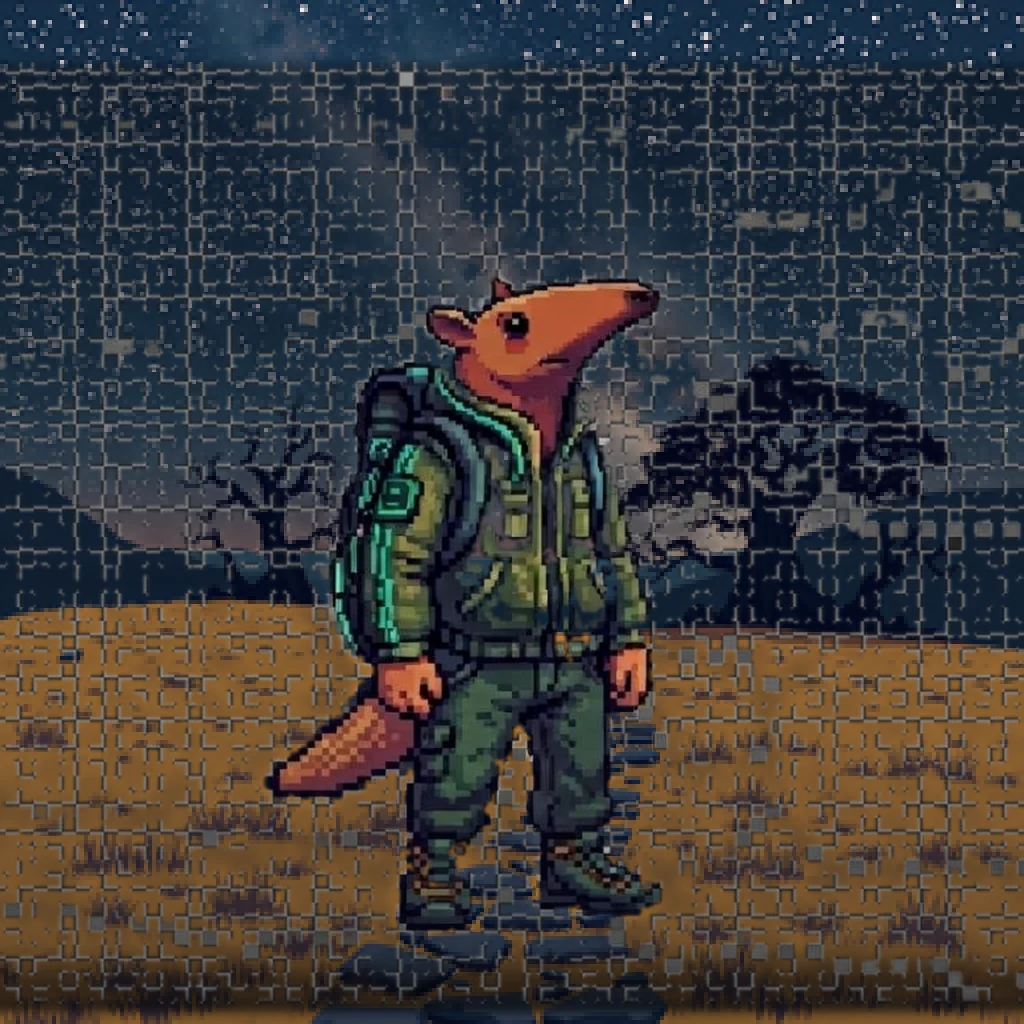
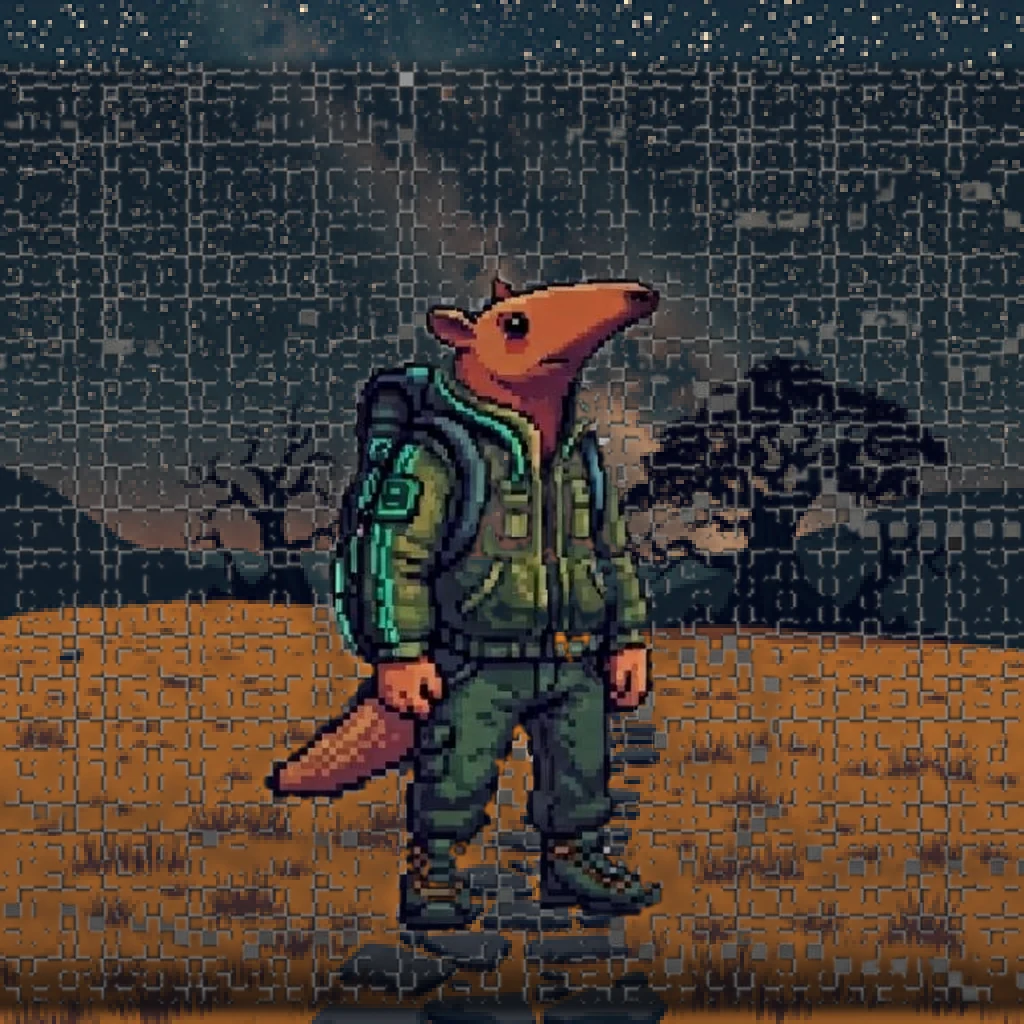
feat(covers): add WebP cover images and state file
- Add 9 WebP cover images (8 yurumi-bg, 1 bg-sprite)
- Add loop state file (.loop-lifelog.state.json)
- Add cover sprite composition script (cover-sprite-compose.py)

Changed region(s): [[0.0625, 0.5938, 0.0938, 0.6875], [0.9688, 0.625, 1.0, 0.6562]]

diff --git a/scripts/cover-sprite-compose.py b/scripts/cover-sprite-compose.py
@@ -197,8 +197,10 @@ def cover_crop(img, w, h):
     return img.crop(box).resize((w, h), _RES)
 
 
-def pixelate(img, grid=256):
+def pixelate(img, grid=256, scene=None):
     """Reduz a resolucao e volta com NEAREST -> chunky pixel art (casa com o sprite)."""
+    if scene:
+        img = apply_grade(img, scene)
     w, h = img.size
     small = img.resize((grid, max(1, int(grid * h / w))), _RES)
     return small.resize((w, h), _NEAREST)
@@ -241,7 +243,7 @@ def apply_grade(bg, scene):
 def compose(cover_bg, sprite, w, h, sprite_h_ratio=0.92, scene=None):
     """Sprite ancorado embaixo/centro, com sombra de contato e vinheta inferior."""
     sprite = trim_alpha(sprite)
-    cover = pixelate(cover_bg.convert("RGBA"), scene).convert("RGBA")
+    cover = pixelate(cover_bg.convert("RGBA"), scene=scene).convert("RGBA")
     sh = int(h * sprite_h_ratio)
     sw = int(sprite.width * (sh / sprite.height))
     sp = soften_alpha(sprite).resize((sw, sh), _RES)
@@ -315,7 +317,7 @@ def main():
             raise SystemExit("nao consegui gerar o fundo")
     bg = Image.open(bg_path).convert("RGB")
 
-    cover = compose(cover_crop(bg, COVER_W, COVER_H), sprite, COVER_W, COVER_H)
+    cover = compose(cover_crop(bg, COVER_W, COVER_H), sprite, COVER_W, COVER_H, scene=scene)
     out = os.path.join(LIFELOG_DIR, f"public/covers/{slug}.webp")
     cover.save(out, "WEBP", quality=88, method=6)
     print(f"OK {out} scene={scene} bytes={os.path.getsize(out)}")
